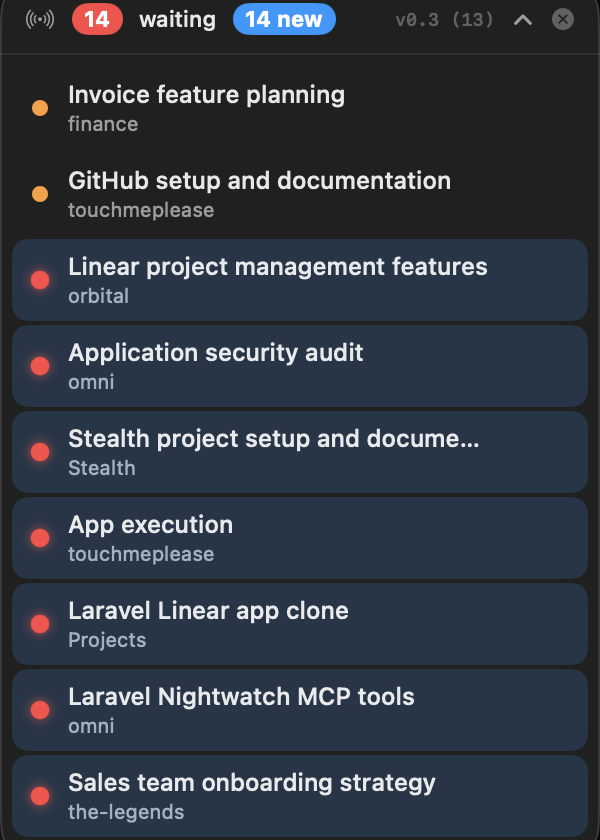
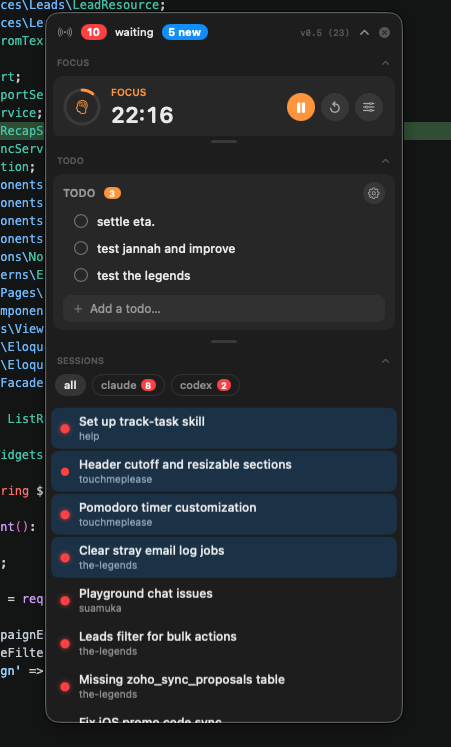
docs: update readme screenshot

diff --git a/README.md b/README.md
@@ -12,7 +12,7 @@ session monitor, AI coding assistant, Anthropic
 </p>
 
 <p align="center">
-  <img src="docs/screenshot.png" alt="touchmeplease floating panel listing Claude desktop sessions with red waiting and orange working status dots" width="420">
+  <img src="docs/screenshot.png" alt="touchmeplease floating panel with focus timer, todo list, and session status dots" width="420">
 </p>
 
 <p align="center">